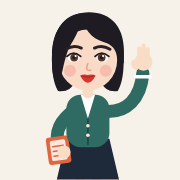
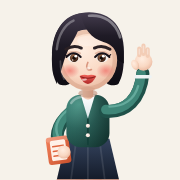
선생님 일러스트를 3D 느낌(입체 음영·광택)으로 변경, 머리 길이를 턱선 단발로 조정, 바로가기 아이콘 갱신
Claude-Session: https://claude.ai/code/session_01GFiG5geJu7jjXnYb4pYTSP

diff --git a/index.html b/index.html
@@ -51,7 +51,7 @@ body.teacher .wrap{padding-left:132px;padding-right:132px}
 .hint{margin:0 0 4px;color:var(--muted)}
 #houseSvg{width:min(480px,62vw,50vh);cursor:pointer;display:block;transition:transform .2s;flex:none}
 .stage{display:flex;align-items:flex-end;justify-content:center;gap:0;margin-top:14px}
-.mascot{width:calc(min(480px,62vw,50vh) * .52);height:auto;margin-left:-14px;flex:none;margin-bottom:8px}
+.mascot{filter:drop-shadow(0 8px 10px rgba(30,42,58,.16));width:calc(min(480px,62vw,50vh) * .52);height:auto;margin-left:-14px;flex:none;margin-bottom:8px}
 .tail{transform-origin:120px 60px;animation:sway 2.2s ease-in-out infinite}
 @keyframes sway{0%,100%{transform:rotate(1.2deg)}50%{transform:rotate(-1.2deg)}}
 .wave{transform-origin:150px 204px;animation:wave 1.1s ease-in-out infinite}
@@ -204,42 +204,81 @@ button.tile{border:0;width:100%;font-family:var(--f-label);cursor:pointer}
       <ellipse cx="456" cy="408" rx="22" ry="15"/><ellipse cx="469" cy="401" rx="25" ry="22"/><ellipse cx="480" cy="407" rx="17" ry="16"/></g>
     </svg>
     <svg class="mascot" viewBox="0 0 250 400" aria-hidden="true">
-      <ellipse cx="120" cy="388" rx="72" ry="9" fill="#1E2A3A" opacity=".14"/>
+      <defs>
+        <radialGradient id="mSkin" cx=".42" cy=".34" r=".78"><stop offset="0" stop-color="#FFEDE0"/><stop offset=".55" stop-color="#F9D8C3"/><stop offset="1" stop-color="#E4AE94"/></radialGradient>
+        <linearGradient id="mLimb" x1="0" y1="0" x2="1" y2="0"><stop offset="0" stop-color="#FBDCC8"/><stop offset="1" stop-color="#E6B49B"/></linearGradient>
+        <linearGradient id="mHair" x1="0" y1="0" x2="0" y2="1"><stop offset="0" stop-color="#443C4E"/><stop offset=".45" stop-color="#1F1B26"/><stop offset="1" stop-color="#0E0C13"/></linearGradient>
+        <radialGradient id="mCardi" cx=".3" cy=".18" r=".95"><stop offset="0" stop-color="#58A596"/><stop offset=".5" stop-color="#2F6B62"/><stop offset="1" stop-color="#1A4640"/></radialGradient>
+        <linearGradient id="mShade" x1="0" y1="0" x2="1" y2="0"><stop offset="0" stop-color="#000" stop-opacity="0"/><stop offset="1" stop-color="#000" stop-opacity=".28"/></linearGradient>
+        <linearGradient id="mSkirt" x1="0" y1="0" x2="0" y2="1"><stop offset="0" stop-color="#34435E"/><stop offset="1" stop-color="#141B29"/></linearGradient>
+        <radialGradient id="mBlush"><stop offset="0" stop-color="#F0786F" stop-opacity=".8"/><stop offset="1" stop-color="#F0786F" stop-opacity="0"/></radialGradient>
+        <radialGradient id="mIris" cx=".4" cy=".32" r=".75"><stop offset="0" stop-color="#A47452"/><stop offset=".55" stop-color="#5E3827"/><stop offset="1" stop-color="#2A170F"/></radialGradient>
+        <linearGradient id="mLip" x1="0" y1="0" x2="0" y2="1"><stop offset="0" stop-color="#F0645A"/><stop offset="1" stop-color="#B02A28"/></linearGradient>
+        <linearGradient id="mBlouse" x1="0" y1="0" x2="0" y2="1"><stop offset="0" stop-color="#FFFFFF"/><stop offset="1" stop-color="#DCE5E8"/></linearGradient>
+        <linearGradient id="mBook" x1="0" y1="0" x2="1" y2="1"><stop offset="0" stop-color="#F2805A"/><stop offset="1" stop-color="#C8502C"/></linearGradient>
+        <linearGradient id="mShoe" x1="0" y1="0" x2="0" y2="1"><stop offset="0" stop-color="#2E6A61"/><stop offset="1" stop-color="#143A35"/></linearGradient>
+        <filter id="mBlur" x="-40%" y="-40%" width="180%" height="180%"><feGaussianBlur stdDeviation="3.2"/></filter>
+        <filter id="mBlurS" x="-30%" y="-30%" width="160%" height="160%"><feGaussianBlur stdDeviation="1.3"/></filter>
+      </defs>
+      <ellipse cx="120" cy="388" rx="72" ry="9" fill="#1E2A3A" opacity=".2" filter="url(#mBlur)"/>
       <!-- legs & shoes -->
-      <rect x="99" y="310" width="15" height="62" rx="7" fill="#F8DCC4"/><rect x="128" y="310" width="15" height="62" rx="7" fill="#F8DCC4"/>
-      <path d="M93 372c0-8 8-12 16-12h8v12c0 6-4 10-10 10h-8c-4 0-6-4-6-10z" fill="#1F4B45"/><path d="M149 372c0-8-8-12-16-12h-8v12c0 6 4 10 10 10h8c4 0 6-4 6-10z" fill="#1F4B45"/>
+      <rect x="99" y="310" width="15" height="62" rx="7" fill="url(#mLimb)"/><rect x="128" y="310" width="15" height="62" rx="7" fill="url(#mLimb)"/>
+      <path d="M93 372c0-8 8-12 16-12h8v12c0 6-4 10-10 10h-8c-4 0-6-4-6-10z" fill="url(#mShoe)"/><path d="M149 372c0-8-8-12-16-12h-8v12c0 6 4 10 10 10h8c4 0 6-4 6-10z" fill="url(#mShoe)"/>
+      <ellipse cx="104" cy="368" rx="6" ry="2.6" fill="#fff" opacity=".35"/><ellipse cx="138" cy="368" rx="6" ry="2.6" fill="#fff" opacity=".35"/>
       <!-- skirt -->
-      <path d="M84 250h72l16 68H68z" fill="#1E2A3A"/><path d="M68 318h104v6H68z" fill="#E0663F"/>
-      <!-- book arm (viewer's left) -->
-      <path d="M92 206c-26 22-28 44-16 60" stroke="#2F6B62" stroke-width="22" stroke-linecap="round" fill="none"/>
-      <rect x="52" y="246" width="38" height="46" rx="5" fill="#E0663F" transform="rotate(-8 71 269)"/><rect x="58" y="252" width="26" height="34" rx="3" fill="#FBE7DE" transform="rotate(-8 71 269)"/><path d="M62 262h18M62 270h18M62 278h12" stroke="#E0663F" stroke-width="2.4" stroke-linecap="round" transform="rotate(-8 71 269)"/>
-      <circle cx="80" cy="272" r="11" fill="#F8DCC4"/>
+      <path d="M84 250h72l16 68H68z" fill="url(#mSkirt)"/>
+      <path d="M100 256l-8 60M120 256v62M140 256l8 60" stroke="#fff" stroke-opacity=".1" stroke-width="3" stroke-linecap="round"/>
+      <path d="M68 318h104v6H68z" fill="#E0663F"/><path d="M68 318h104v2.5H68z" fill="#fff" opacity=".35"/>
+      <!-- book arm -->
+      <path d="M92 206c-26 22-28 44-16 60" stroke="#1F5149" stroke-width="22" stroke-linecap="round" fill="none"/>
+      <path d="M90 204c-24 20-26 42-14 57" stroke="#3F8678" stroke-width="16" stroke-linecap="round" fill="none"/>
+      <path d="M86 202c-18 14-22 30-16 44" stroke="#7FC4B6" stroke-width="4" stroke-linecap="round" fill="none" opacity=".55"/>
+      <g transform="rotate(-8 71 269)"><rect x="52" y="246" width="38" height="46" rx="5" fill="url(#mBook)"/><rect x="58" y="252" width="26" height="34" rx="3" fill="#FFF1E8"/><path d="M62 262h18M62 270h18M62 278h12" stroke="#E0663F" stroke-width="2.4" stroke-linecap="round"/><rect x="52" y="246" width="38" height="8" rx="4" fill="#fff" opacity=".22"/></g>
+      <circle cx="80" cy="272" r="11" fill="url(#mSkin)"/>
       <!-- torso -->
-      <rect x="84" y="176" width="72" height="88" rx="24" fill="#2F6B62"/>
-      <path d="M108 176l12 40 12-40z" fill="#fff"/><path d="M120 216v44" stroke="#1F4B45" stroke-width="3"/>
-      <circle cx="120" cy="228" r="3" fill="#FBE7DE"/><circle cx="120" cy="244" r="3" fill="#FBE7DE"/>
-      <rect x="111" y="164" width="18" height="18" rx="8" fill="#F8DCC4"/>
+      <rect x="84" y="176" width="72" height="88" rx="24" fill="url(#mCardi)"/>
+      <rect x="84" y="176" width="72" height="88" rx="24" fill="url(#mShade)"/>
+      <path d="M108 176l12 40 12-40z" fill="url(#mBlouse)"/><path d="M120 216v44" stroke="#14403A" stroke-width="3"/>
+      <circle cx="120" cy="228" r="3.4" fill="#FBE7DE"/><circle cx="120" cy="244" r="3.4" fill="#FBE7DE"/><circle cx="119" cy="227" r="1.2" fill="#fff"/><circle cx="119" cy="243" r="1.2" fill="#fff"/>
+      <path d="M92 190c4-6 10-9 16-10" stroke="#fff" stroke-opacity=".35" stroke-width="4" stroke-linecap="round" fill="none"/>
+      <!-- neck -->
+      <rect x="111" y="162" width="18" height="22" rx="8" fill="url(#mLimb)"/>
+      <ellipse cx="120" cy="174" rx="16" ry="7" fill="#B77E66" opacity=".5" filter="url(#mBlurS)"/>
       <!-- hair & face -->
-      <g class="tail"><path d="M60 114C58 62 88 38 122 38c36 0 62 24 58 76 0 24-2 42-10 56-14 2-24-4-28-16H98c-4 12-14 18-28 16-8-14-10-32-10-56z" fill="#1E1B22"/></g>
-      <ellipse cx="120" cy="118" rx="49" ry="51" fill="#F8DAC6"/>
-      <path d="M108 40C152 34 184 62 180 124l-10-6c-2-18-10-26-24-30-20-6-34-22-38-48z" fill="#1E1B22"/>
-      <path d="M108 40C74 44 58 78 60 126c0 16 4 28 10 38 6-14 8-38 16-60 8-20 22-30 22-64z" fill="#1E1B22"/>
+      <g class="tail"><path d="M60 114C58 62 88 38 122 38c36 0 62 24 58 76 0 18-2 32-9 44-12 6-22 0-26-10H97c-4 10-14 16-26 10-7-12-11-26-11-44z" fill="url(#mHair)"/></g>
+      <ellipse cx="120" cy="118" rx="49" ry="51" fill="url(#mSkin)"/>
+      <ellipse cx="120" cy="118" rx="45" ry="47" fill="none" stroke="#C98E76" stroke-opacity=".35" stroke-width="7" filter="url(#mBlurS)"/>
+      <ellipse cx="124" cy="86" rx="22" ry="9" fill="#fff" opacity=".28" filter="url(#mBlurS)"/>
+      <path d="M108 40C152 34 184 62 180 124l-10-6c-2-18-10-26-24-30-20-6-34-22-38-48z" fill="url(#mHair)"/>
+      <path d="M108 40C74 44 58 78 60 126c0 12 3 22 8 32 6-12 9-34 18-54 8-20 22-30 22-64z" fill="url(#mHair)"/>
+      <path d="M122 44C146 42 166 54 174 80" stroke="#fff" stroke-opacity=".38" stroke-width="4.5" stroke-linecap="round" fill="none" filter="url(#mBlurS)"/>
+      <path d="M96 52C82 58 70 76 68 100" stroke="#fff" stroke-opacity=".3" stroke-width="4" stroke-linecap="round" fill="none" filter="url(#mBlurS)"/>
+      <path d="M74 120c0 12 2 22 6 30" stroke="#fff" stroke-opacity=".18" stroke-width="3" stroke-linecap="round" fill="none"/>
       <path d="M83 100q13-8 26-2M131 98q13-6 26 2" stroke="#2A2024" stroke-width="5" stroke-linecap="round" fill="none"/>
-      <ellipse cx="96" cy="114" rx="10" ry="8" fill="#fff"/><ellipse cx="144" cy="114" rx="10" ry="8" fill="#fff"/>
-      <circle cx="97" cy="114" r="6.5" fill="#5A3626"/><circle cx="143" cy="114" r="6.5" fill="#5A3626"/>
-      <circle cx="97" cy="114" r="3" fill="#1E1B22"/><circle cx="143" cy="114" r="3" fill="#1E1B22"/>
-      <circle cx="99.5" cy="111.5" r="1.8" fill="#fff"/><circle cx="145.5" cy="111.5" r="1.8" fill="#fff"/>
-      <path d="M85 112q11-11 23 0M132 112q11-11 23 0" stroke="#1E1B22" stroke-width="3" stroke-linecap="round" fill="none"/>
-      <path d="M120 124q-4 8 0 11q3 1 5 0" stroke="#E2A58F" stroke-width="2.6" stroke-linecap="round" fill="none"/>
-      <circle cx="90" cy="136" r="10" fill="#F29A8E" opacity=".45"/><circle cx="150" cy="136" r="10" fill="#F29A8E" opacity=".45"/>
-      <path d="M107 144q6-3 13-1q7-2 13 1q-6 12-13 12t-13-12z" fill="#D8362F"/><path d="M110 145q10 4 20 0" stroke="#A8231F" stroke-width="1.6" stroke-linecap="round" fill="none"/>
+      <path d="M86 108q10-7 21-1M133 107q10-6 21 1" stroke="#C98E76" stroke-opacity=".5" stroke-width="3" stroke-linecap="round" fill="none" filter="url(#mBlurS)"/>
+      <ellipse cx="96" cy="114" rx="10" ry="8.2" fill="#F5F1EE"/><ellipse cx="144" cy="114" rx="10" ry="8.2" fill="#F5F1EE"/>
+      <circle cx="97" cy="114.5" r="7" fill="url(#mIris)"/><circle cx="143" cy="114.5" r="7" fill="url(#mIris)"/>
+      <circle cx="97" cy="114.5" r="3.2" fill="#140B07"/><circle cx="143" cy="114.5" r="3.2" fill="#140B07"/>
+      <circle cx="99.8" cy="111.6" r="2.4" fill="#fff"/><circle cx="145.8" cy="111.6" r="2.4" fill="#fff"/><circle cx="94.5" cy="118" r="1.2" fill="#fff" opacity=".8"/><circle cx="140.5" cy="118" r="1.2" fill="#fff" opacity=".8"/>
+      <path d="M84 113q12-13 24 0M132 113q12-13 24 0" stroke="#17121A" stroke-width="3.2" stroke-linecap="round" fill="none"/>
+      <path d="M85 112l-3-3M155 112l3-3" stroke="#17121A" stroke-width="2.2" stroke-linecap="round"/>
+      <path d="M120 122q-4 9 0 12q3 1.5 6 0" stroke="#D9967F" stroke-width="2.6" stroke-linecap="round" fill="none"/>
+      <ellipse cx="120.5" cy="132" rx="3.6" ry="2.2" fill="#fff" opacity=".45"/>
+      <ellipse cx="90" cy="136" rx="16" ry="12" fill="url(#mBlush)"/><ellipse cx="150" cy="136" rx="16" ry="12" fill="url(#mBlush)"/>
+      <path d="M106 145q7-4 14-1.5q7-2.5 14 1.5q-6 13-14 13t-14-13z" fill="url(#mLip)"/>
+      <path d="M108 146q12 5 24 0" stroke="#8E1F1E" stroke-width="1.8" stroke-linecap="round" fill="none"/>
+      <ellipse cx="114" cy="151" rx="4.5" ry="1.8" fill="#fff" opacity=".6" transform="rotate(-8 114 151)"/>
+      <ellipse cx="120" cy="166" rx="12" ry="3" fill="#C98E76" opacity=".25" filter="url(#mBlurS)"/>
       <!-- waving arm -->
-      <g class="wave"><path d="M150 204c34 2 58-20 62-64" stroke="#2F6B62" stroke-width="22" stroke-linecap="round" fill="none"/>
-        <path d="M200 146h24" stroke="#fff" stroke-width="6" stroke-linecap="round"/>
-        <circle cx="213" cy="121" r="15" fill="#F8DCC4"/><ellipse cx="199" cy="126" rx="6" ry="9" fill="#F8DCC4" transform="rotate(-25 199 126)"/>
-        <path d="M206 110v-11M213 108v-14M220 111v-11" stroke="#F8DCC4" stroke-width="7" stroke-linecap="round"/></g>
+      <g class="wave"><path d="M150 204c34 2 58-20 62-64" stroke="#1F5149" stroke-width="22" stroke-linecap="round" fill="none"/>
+        <path d="M150 201c32 2 55-18 59-60" stroke="#3F8678" stroke-width="16" stroke-linecap="round" fill="none"/>
+        <path d="M156 196c24 0 42-12 48-34" stroke="#8ACDBF" stroke-width="4" stroke-linecap="round" fill="none" opacity=".5"/>
+        <path d="M200 146h24" stroke="#EEF3F4" stroke-width="6" stroke-linecap="round"/>
+        <circle cx="213" cy="121" r="15" fill="url(#mSkin)"/><ellipse cx="199" cy="126" rx="6" ry="9" fill="url(#mSkin)" transform="rotate(-25 199 126)"/>
+        <path d="M206 110v-11M213 108v-14M220 111v-11" stroke="#F3CDB6" stroke-width="7" stroke-linecap="round"/>
+        <path d="M206 108v-8M213 105v-10M220 108v-8" stroke="#fff" stroke-opacity=".35" stroke-width="2.4" stroke-linecap="round"/></g>
       <!-- speech bubble -->
-      <g transform="translate(-4 -14)"><path d="M150 34h86a14 14 0 0 1 14 14v10a14 14 0 0 1-14 14h-52l-14 14v-14h-20a14 14 0 0 1-14-14V48a14 14 0 0 1 14-14z" fill="#fff" style="filter:drop-shadow(0 4px 8px rgba(30,42,58,.12))"/>
+      <g transform="translate(-4 -14)"><path d="M150 34h86a14 14 0 0 1 14 14v10a14 14 0 0 1-14 14h-52l-14 14v-14h-20a14 14 0 0 1-14-14V48a14 14 0 0 1 14-14z" fill="#fff" style="filter:drop-shadow(0 4px 8px rgba(30,42,58,.14))"/>
       <text x="196" y="62" text-anchor="middle" font-size="19" fill="#1E2A3A" style="font-family:var(--f-label)">반가워요!</text></g>
     </svg>
     </div>
